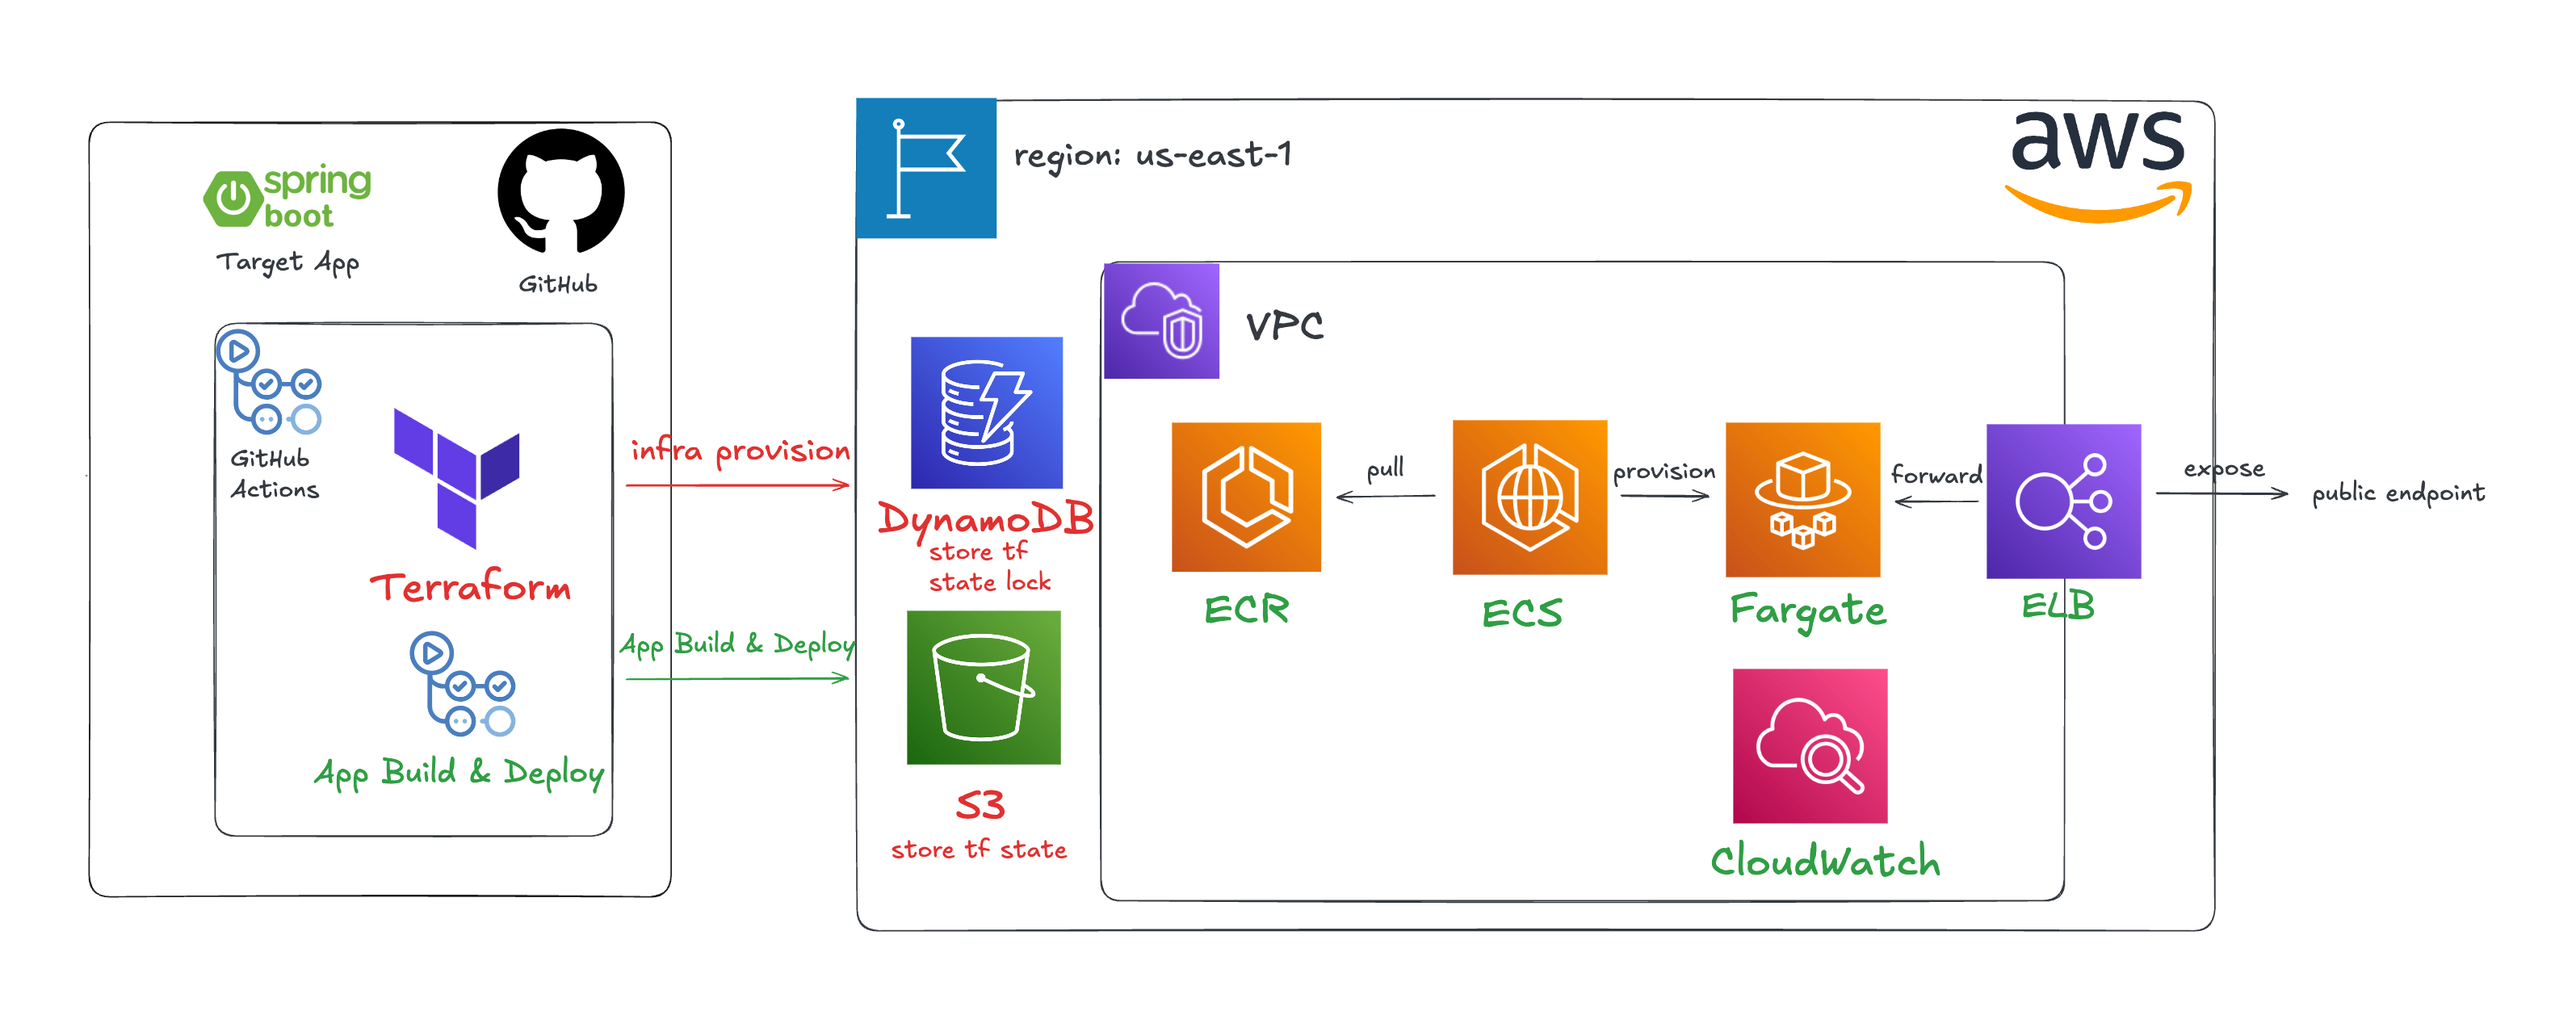
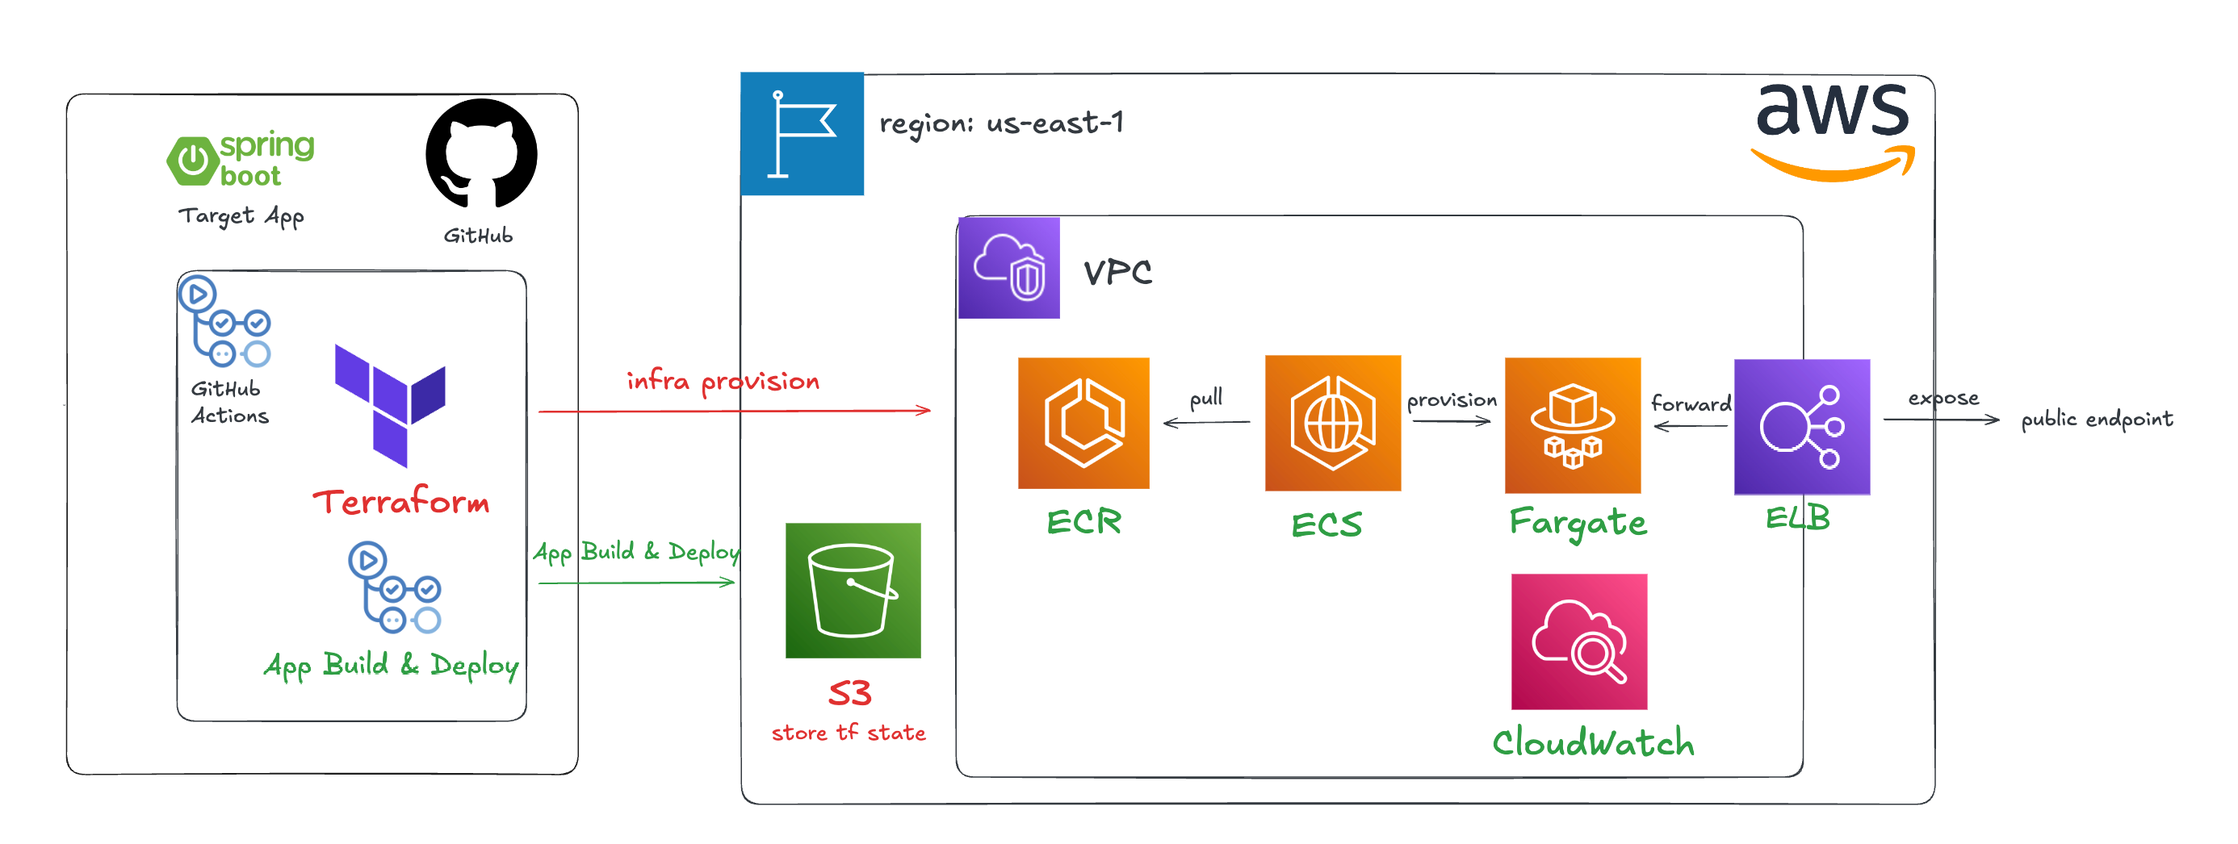
refactor: terraform state saving

diff --git a/README.md b/README.md
@@ -94,7 +94,6 @@ Perform everything via this user.
    - `AmazonEC2ContainerRegistryFullAccess`
    - `AmazonVPCFullAccess`
    - `AmazonS3FullAccess` (for Terraform state)
-   - `AmazonDynamoDBFullAccess` (for Terraform state locking)
    - `AmazonSNSFullAccess` (for billing alarms)
    - `CloudWatchFullAccess`
    - `IAMFullAccess`
@@ -103,7 +102,7 @@ Perform everything via this user.
 5. After creating the user, save the Access Key ID and Secret Access Key securely in GitHub and also download csv file with them.
 
 
-## 2. Create S3 Bucket and DynamoDB Table for Terraform State
+## 2. Create S3 Bucket to store Terraform State
 
 ### Set Up S3 Bucket
 ```bash
@@ -134,29 +133,7 @@ aws s3api put-bucket-encryption \
   }'
 ```
 
-### Set Up DynamoDB Table for State Locking
-```bash
-# Create DynamoDB table for state locking
-aws dynamodb create-table \
-  --table-name terraform-locks \
-  --attribute-definitions AttributeName=LockID,AttributeType=S \
-  --key-schema AttributeName=LockID,KeyType=HASH \
-  --billing-mode PAY_PER_REQUEST \
-  --region us-east-1
-```
-
-## 3. Get the Latest ECS-Optimized AMI ID
-
-```bash
-# Get the latest ECS-optimized AMI ID for Amazon Linux 2
-aws ssm get-parameters \
-  --names /aws/service/ecs/optimized-ami/amazon-linux-2/recommended \
-  --region us-east-1
-
-# Look for the "image_id" in the output and use it in your variables.tf file
-```
-
-## 4. GitHub Repository Setup
+## 2. GitHub Repository Setup
 
 ### Create a New Repository
 1. Go to [GitHub](https://github.com/)
@@ -177,7 +154,7 @@ aws ssm get-parameters \
 1. Click on the "Actions" tab in your repository
 2. Confirm that you want to enable GitHub Actions
 
-## 5. Clone Your Repository and Add Configuration Files
+## 3. Clone Your Repository and Add Configuration Files
 
 ```bash
 # Clone your repository
@@ -202,7 +179,7 @@ git commit -m "Add deployment configuration"
 git push origin main
 ```
 
-## 6. Spring Boot Application Setup
+## 4. Spring Boot Application Setup
 
 Ensure your Spring Boot application:
 
@@ -218,14 +195,14 @@ implementation 'org.springframework.boot:spring-boot-starter-actuator'
 implementation 'org.springframework.boot:spring-boot-starter-web'
 ```
 
-## 7. Initial Deployment
+## 5. Initial Deployment
 
 1. Push your code to the main branch
 2. Go to the "Actions" tab in your GitHub repository and trigger "Deploy Spring Boot App" action
 3. Watch as your first deployment runs
 4. Troubleshoot any issues by checking the workflow logs
 
-## 8. Verify Setup 
+## 6. Verify Setup 
 
 After deployment, verify:
 
@@ -234,7 +211,7 @@ After deployment, verify:
 3. The billing alarm is properly configured
 4. You received an email to confirm the SNS subscription for billing alerts
 
-## 9. Cleanup When No Longer Needed
+## 7. Cleanup When No Longer Needed
 
 To avoid incurring any costs, you can destroy all resources when they're no longer needed:
 
@@ -245,7 +222,7 @@ terraform destroy
 
 or you can trigger GitHub action called Terraform destroy manually, which will do the same thing.
 
-### 10. Update Configuration if needed
+### 8. Update Configuration if needed
 
 Review and update:
 
